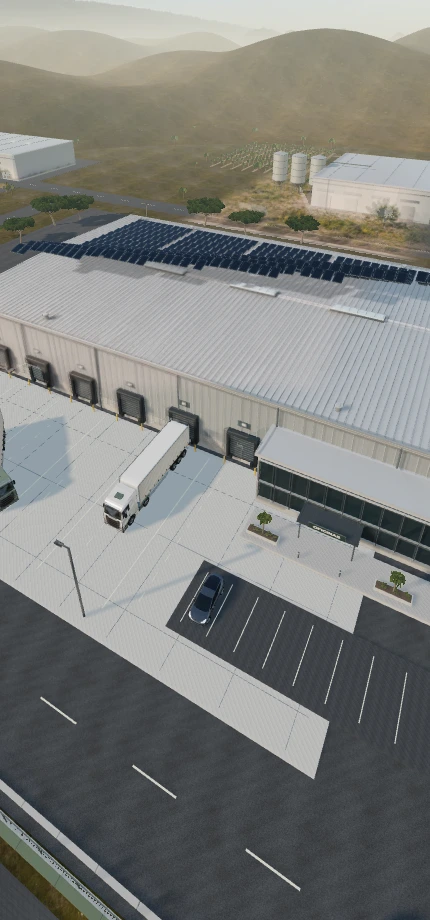
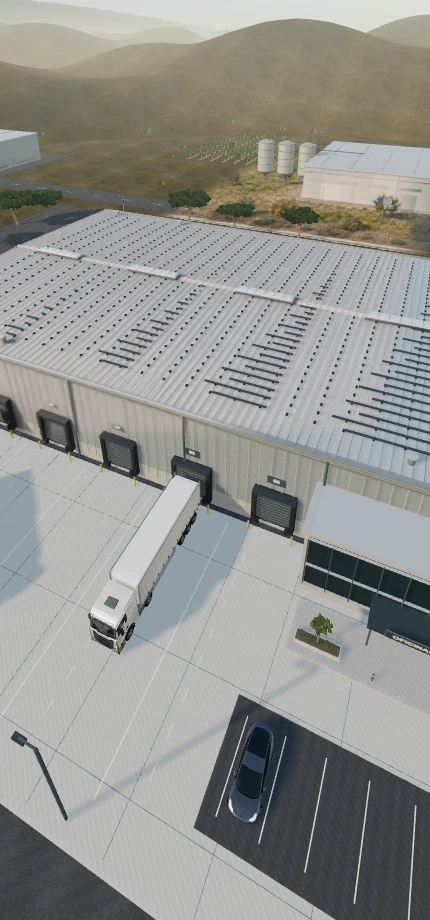
Animar anclajes y carriles antes de colocar las placas en la nave

diff --git a/recorrido-solar/montaje.js b/recorrido-solar/montaje.js
@@ -1,4 +1,4 @@
-import {tiempoVilla, progresoResidencial, INICIO_PARKING, DURACION_PARKING, FIN_RECORRIDO, tiempoParking} from './modelo/guion.js';
+import {tiempoVilla, progresoResidencial, FIN_LLEGADA, INICIO_PLACAS_NAVE, faseCubierta, INICIO_PARKING, DURACION_PARKING, FIN_RECORRIDO, tiempoParking} from './modelo/guion.js';
 const recurso = ruta => new URL(ruta, import.meta.url).href;
 
 export function iniciarPortada(raiz) {
@@ -54,7 +54,7 @@ export function iniciarPortada(raiz) {
     {inicio:.487, punto:.555, nombre:'El punto de recarga', titulo:['El coche carga','en casa.'], texto:'Desde el punto de recarga del patio puedes programar la carga para las horas en que el coche está aparcado y hay sol.'},
     {inicio:.609, punto:.650, nombre:'La villa de noche', titulo:['La casa,','de noche.'], texto:'La batería puede alimentar las luces del salón y la terraza con la energía que se guardó durante el día.'},
     {inicio:.678, punto:.798, nombre:'La costa', titulo:['Al otro lado,','el mar.'], texto:'Desde la terraza se ven las luces de la costa. Al amanecer nos acercamos a la cubierta de una nave.'},
-    {inicio:.844, punto:.874, nombre:'La nave industrial', titulo:['Las placas','de la nave.'], subrayado:'la nave', texto:'Las filas de paneles ocupan la cubierta entre los lucernarios. La nave genera electricidad durante las horas de actividad.'},
+    {inicio:.844, punto:.876, nombre:'La nave industrial', titulo:['La cubierta','de la nave.'], subrayado:'la nave', texto:'Fijamos los anclajes a la chapa y montamos los carriles de aluminio. Dejamos libres los lucernarios para que entre la luz.'},
     {inicio:INICIO_PARKING, punto:INICIO_PARKING+.052, nombre:'La pérgola solar', titulo:['Pérgola solar','para empresas.'], subrayado:'Pérgola solar', texto:'Montamos los pilares entre las plazas de aparcamiento. Las vigas que los unen sostendrán las placas.'},
     {inicio:.953+DURACION_PARKING, punto:.963+DURACION_PARKING, nombre:'Los muelles de carga', titulo:['El turno','ya ha empezado.'], texto:'Un camión entra al muelle. Al diseñar la instalación, estudiamos a qué horas funcionan las máquinas y qué potencia necesitan.'}
   ];
@@ -79,6 +79,9 @@ export function iniciarPortada(raiz) {
   let falloGrafico = false;
   let frameScroll = 0;
   let longitud = 1;
+  const recorridoExtraNave=.10;
+  const tramoCubierta=INICIO_PARKING-FIN_LLEGADA;
+  const desplazamientoPara=p=>inicio+longitud*(p+recorridoExtraNave*faseCubierta(p));
   let inicio = 0;
   const cabeceras = raiz.host ? [...document.querySelectorAll('.site-header, .call-bar')] : [];
 
@@ -87,13 +90,15 @@ export function iniciarPortada(raiz) {
     if (raiz.host) raiz.host.style.setProperty('--franja', altoCabecera + 'px');
     inicio = viaje.getBoundingClientRect().top + scrollY - altoCabecera;
     // Reserva un breve tramo de lectura para la vivienda ya terminada.
-    longitud = Math.max(1, (viaje.offsetHeight - ventana.offsetHeight) * .96 / FIN_RECORRIDO);
+    longitud = Math.max(1, (viaje.offsetHeight - ventana.offsetHeight) * .96 / (FIN_RECORRIDO+recorridoExtraNave));
     solicitarFrame();
   }
 
   function dibujarRecorrido() {
     frameScroll = 0;
-    const valor = Math.max(0, Math.min(FIN_RECORRIDO,(scrollY - inicio) / longitud));
+    const distancia=(scrollY-inicio)/longitud;
+    const extra=recorridoExtraNave*limite((distancia-FIN_LLEGADA)/(tramoCubierta+recorridoExtraNave));
+    const valor=Math.max(0,Math.min(FIN_RECORRIDO,distancia-extra));
     if (valor === progresoActual && faseActual >= 0) return;
     progresoActual = valor;
     modeloMontaje?.progreso(valor);
@@ -119,14 +124,19 @@ export function iniciarPortada(raiz) {
       botonesEtapa[i].style.setProperty('--avance', String(i === nueva ? Math.max(.08, parte) : parte));
     }
     const parking = tiempoParking(valor);
-    const texto = nueva !== 9 || parking < .46 ? etapas[nueva].texto
+    const cubierta=faseCubierta(valor);
+    const texto = nueva===8 && cubierta>=INICIO_PLACAS_NAVE
+      ? 'Las placas bajan por filas y se fijan sobre dos carriles. Entre bloques queda un pasillo para el mantenimiento.'
+      : nueva !== 9 || parking < .46 ? etapas[nueva].texto
       : parking < .78 ? 'Las placas forman el techo de la pérgola. Dan sombra a los coches y producen electricidad para la nave.'
       : 'Con el cargador junto a la plaza, el coche puede aprovechar la energía solar mientras está aparcado.';
     const fotograma = nueva === 10 ? (valor < .965+DURACION_PARKING ? 'modelo/muelle-entrada' : 'modelo/etapa-10')
       : nueva === 9 ? (valor > .925+DURACION_PARKING ? 'modelo/descenso-muelle'
         : 'modelo/parking-' + (tiempoParking(valor)<.4?'estructura':tiempoParking(valor)<.78?'placas':'recarga'))
       : valor >= .833 && valor < .858 ? 'modelo/llegada-nave'
-      : nueva === 8 && valor < .887 ? 'modelo/nave-inicio'
+      : nueva === 8 && cubierta < .30 ? 'modelo/nave-inicio'
+      : nueva === 8 && cubierta < INICIO_PLACAS_NAVE ? 'modelo/nave-carriles'
+      : nueva === 8 && cubierta < .92 ? 'modelo/nave-paneles'
       : nueva === 7 && valor >= .812 ? 'modelo/salida-villa'
       : nueva === 7 && valor < .749 ? 'modelo/costa-giro' : 'modelo/etapa-' + (nueva + 1);
     if (fotograma !== ultimoFotograma) {
@@ -170,13 +180,13 @@ export function iniciarPortada(raiz) {
       (document.getElementById('servicios') || $('#soluciones')).scrollIntoView({behavior:reducido.matches ? 'instant' : 'smooth'});
       return;
     }
-    scrollTo({top:Math.ceil(inicio + longitud * etapas[i].punto), behavior:reducido.matches ? 'instant' : 'smooth'});
+    scrollTo({top:Math.ceil(desplazamientoPara(etapas[i].punto)), behavior:reducido.matches ? 'instant' : 'smooth'});
   }
   function abrirPlanoDesdeEnlace() {
-    const punto={'#muelles':etapas[10].punto,'#pergola':etapas[9].punto,'#recarga':etapas[5].punto,'#parking-recarga':INICIO_PARKING+DURACION_PARKING}[location.hash];
+    const punto={'#nave':etapas[8].punto,'#muelles':etapas[10].punto,'#pergola':etapas[9].punto,'#recarga':etapas[5].punto,'#parking-recarga':INICIO_PARKING+DURACION_PARKING}[location.hash];
     if (punto === undefined) return;
     medirRecorrido();
-    scrollTo({top:Math.ceil(inicio + longitud * punto), behavior:'instant'});
+    scrollTo({top:Math.ceil(desplazamientoPara(punto)), behavior:'instant'});
   }
   window.addEventListener('load',abrirPlanoDesdeEnlace,{once:true, signal});
   window.addEventListener('hashchange',abrirPlanoDesdeEnlace,{signal});

diff --git a/recorrido-solar/modelo/nave.js b/recorrido-solar/modelo/nave.js
@@ -4,7 +4,7 @@ import {RoundedBoxGeometry} from './vendor/RoundedBoxGeometry.js';
 import {crearManiobra} from './maniobra.js';
 import {crearPergola} from './pergola.js';
 import {plantarPinos} from './pinar.js';
-import {CORTE_MUELLES,FIN_LLEGADA,tiempoNave} from './guion.js';
+import {CORTE_MUELLES,FIN_LLEGADA,INICIO_PLACAS_NAVE,tiempoNave} from './guion.js';
 
 const liberar = T.MathUtils.smoothstep;
 const caja = () => new T.BoxGeometry(1,1,1);
@@ -592,22 +592,79 @@ export function crearNave(render,entorno,alCargar) {
   placas.castShadow=false;marcos.castShadow=true;placas.receiveShadow=marcos.receiveShadow=true;
   placas.frustumCulled=marcos.frustumCulled=false;
   for(const m of [placas,marcos]){m.instanceMatrix.setUsage(T.DynamicDrawUsage);escena.add(m);}
-  const pivote=new T.Object3D(),angulo=7*Math.PI/180;
+  const pivote=new T.Object3D();
+  const anguloCubierta=z=>Math.sign(z)*Math.atan(.041);
+  // Sección abierta de aluminio. El eje longitudinal atraviesa los nervios
+  // de la chapa y termina en cada pasillo entre bloques.
+  const seccion=new T.Shape();
+  seccion.moveTo(-.084,0);seccion.lineTo(.084,0);seccion.lineTo(.084,.12);
+  seccion.lineTo(.044,.12);seccion.lineTo(.044,.075);seccion.lineTo(-.044,.075);
+  seccion.lineTo(-.044,.12);seccion.lineTo(-.084,.12);seccion.closePath();
+  const perfil=geo(new T.ExtrudeGeometry(seccion,{depth:1,bevelEnabled:false}));
+  perfil.rotateY(Math.PI/2);perfil.translate(-.5,0,0);
+  const apoyos=[],tramos=[];
+  const primerPanel=bloque=>-35.2+bloque*(9*1.52+.83);
+  const centroFila=f=>-18.8+f*2.40+(f>=8?1.60:0);
+  for(let fila=0;fila<filas;fila++)for(let bloque=0;bloque<5;bloque++){
+    const x0=primerPanel(bloque)-.67,x1=primerPanel(bloque)+8*1.52+.67;
+    for(const lado of [-1,1]){
+      const z=centroFila(fila)+lado*.62;
+      const turno=(15-fila)/15*.095+(4-bloque)/4*.081+(lado+1)*.006;
+      tramos.push({x1,z,largo:x1-x0,inicio:.072+turno});
+      const primeraJunta=Math.ceil((x0+.12+39.8)/.82);
+      const ultimaJunta=Math.floor((x1-.12+39.8)/.82);
+      for(let i=0;i<=5;i++){
+        const junta=Math.round(T.MathUtils.lerp(primeraJunta,ultimaJunta,i/5));
+        apoyos.push({x:-39.8+junta*.82,z,inicio:turno*.3+(5-i)*.004});
+      }
+    }
+  }
+  function loteEstructura(g,material,cantidad){
+    const malla=new T.InstancedMesh(g,material,cantidad);
+    malla.count=0;malla.frustumCulled=false;malla.castShadow=malla.receiveShadow=true;
+    malla.instanceMatrix.setUsage(T.DynamicDrawUsage);escena.add(malla);return malla;
+  }
+  const carriles=loteEstructura(perfil,mat('#70818a',{metalness:.70,roughness:.38}),tramos.length);
+  const grapas=loteEstructura(base,mat('#465660',{metalness:.54,roughness:.48}),apoyos.length);
+  let faseAnteriorEstructura=-1;
+  function colocarEstructura(p){
+    const fase=Math.min(.45,p);
+    if(fase===faseAnteriorEstructura)return;
+    faseAnteriorEstructura=fase;
+    grapas.count=0;carriles.count=0;
+    for(const apoyo of apoyos){
+      const t=liberar(fase,apoyo.inicio,apoyo.inicio+.05);
+      if(!t)continue;
+      pivote.rotation.set(anguloCubierta(apoyo.z),0,0);
+      pivote.position.set(apoyo.x,altoTecho(apoyo.z)+.147+.059*t,apoyo.z);
+      pivote.scale.set(.19,.118*t,.27);pivote.updateMatrix();grapas.setMatrixAt(grapas.count++,pivote.matrix);
+    }
+    for(const tramo of tramos){
+      const t=liberar(fase,tramo.inicio,tramo.inicio+.175);
+      if(!t)continue;
+      const largo=tramo.largo*t;
+      pivote.rotation.set(anguloCubierta(tramo.z),0,0);
+      pivote.position.set(tramo.x1-largo/2,altoTecho(tramo.z)+.265,tramo.z);
+      pivote.scale.set(largo,1,1);pivote.updateMatrix();carriles.setMatrixAt(carriles.count++,pivote.matrix);
+    }
+    grapas.instanceMatrix.needsUpdate=carriles.instanceMatrix.needsUpdate=true;
+  }
   const piezas=[];
   for(let f=0;f<filas;f++)for(let c=0;c<columnas;c++){
-    const z=-18.8+f*2.40+(f>=8?1.60:0);
-    const x=-35.2+c*1.52+Math.floor(c/9)*.83;
+    const z=centroFila(f);
+    const x=primerPanel(Math.floor(c/9))+(c%9)*1.52;
     // Remate escalonado por calle entre bloques para poder leer el montaje desde el aire.
-    const inicio=.018+(f/15)*.41+(Math.floor(c/9)/4)*.17+(c%9)*.004;
-    piezas.push({x,z,y:altoTecho(z)+.265,inicio});
+    const inicio=INICIO_PLACAS_NAVE+(f/15)*.245+(Math.floor(c/9)/4)*.103+(c%9)*.0023;
+    piezas.push({x,z,y:altoTecho(z)+.438,angulo:anguloCubierta(z),inicio});
   }
   function posicionar(p){
+    colocarEstructura(p);
     let nVisibles=0;
     for(const pieza of piezas){
       if(p<=pieza.inicio)continue;
-      const t=liberar(p,pieza.inicio,pieza.inicio+.182),salto=1-t;
+      const t=liberar(p,pieza.inicio,pieza.inicio+.115),salto=1-t;
       const y=pieza.y+salto*5.2,z=pieza.z-salto*.96;
-      const giro=angulo+salto*.19;
+      const giro=pieza.angulo+salto*.19;
       pivote.position.set(pieza.x,y,z);pivote.rotation.set(giro,0,0);pivote.scale.set(1.31,.105,2.20);pivote.updateMatrix();marcos.setMatrixAt(nVisibles,pivote.matrix);
       pivote.position.y+=.058*Math.cos(giro);pivote.position.z+=.058*Math.sin(giro);
       pivote.rotation.x=giro-Math.PI*.5;pivote.scale.set(1.284,2.175,1);pivote.updateMatrix();placas.setMatrixAt(nVisibles,pivote.matrix);

diff --git a/recorrido-solar/modelo/guion.js b/recorrido-solar/modelo/guion.js
@@ -5,6 +5,8 @@ export const SEGUNDOS_MANIOBRA = 7.6;
 export const DESPEGUE = .798;
 export const FIN_LLEGADA = .855;
 export const INICIO_PARKING = INICIO_EMPRESAS + .465 * (1-INICIO_EMPRESAS);
+export const INICIO_PLACAS_NAVE = .49;
+export const faseCubierta = progreso => Math.min(1,Math.max(0,(progreso-FIN_LLEGADA)/(INICIO_PARKING-FIN_LLEGADA)));
 export const DURACION_PARKING = .205;
 export const FIN_RECORRIDO = 1+DURACION_PARKING;
 export const tiempoParking = p => Math.min(1,Math.max(0,(p-INICIO_PARKING)/DURACION_PARKING));

diff --git a/recorrido-solar/recorrido.css b/recorrido-solar/recorrido.css
@@ -1,7 +1,7 @@
 .viaje {
   position: relative;
-  height: 1178vh;
-  height: 1178svh;
+  height: 1268vh;
+  height: 1268svh;
   color: #fff;
   background: #293328;
   scroll-margin-top: 0;
@@ -144,7 +144,7 @@
   .viaje-acciones { gap: 13px; }
 }
 @media (max-width: 720px) {
-  .viaje { height: 1064svh; }
+  .viaje { height: 1144svh; }
   .viaje .cabecera-interior { height: 66px; }
   .viaje .menu-abierto .nav { top: 65px; }
   .viaje-luz {
